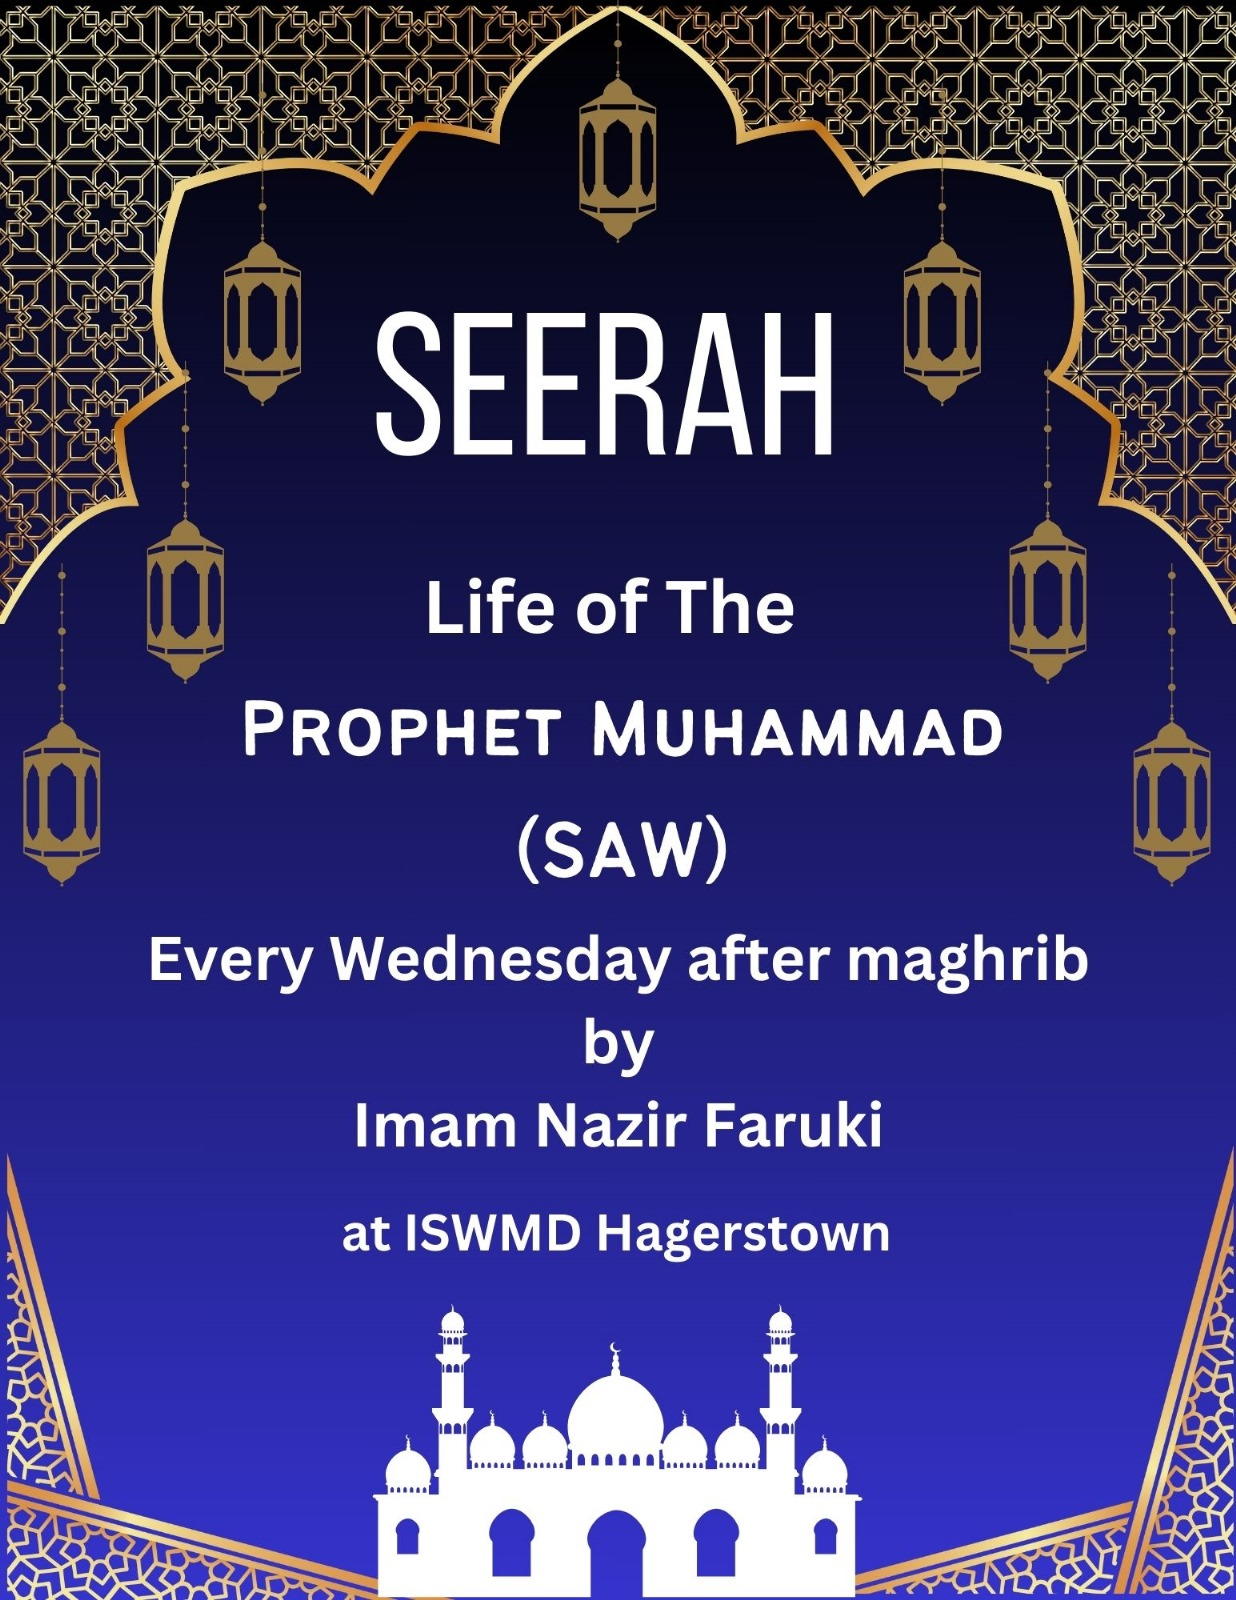
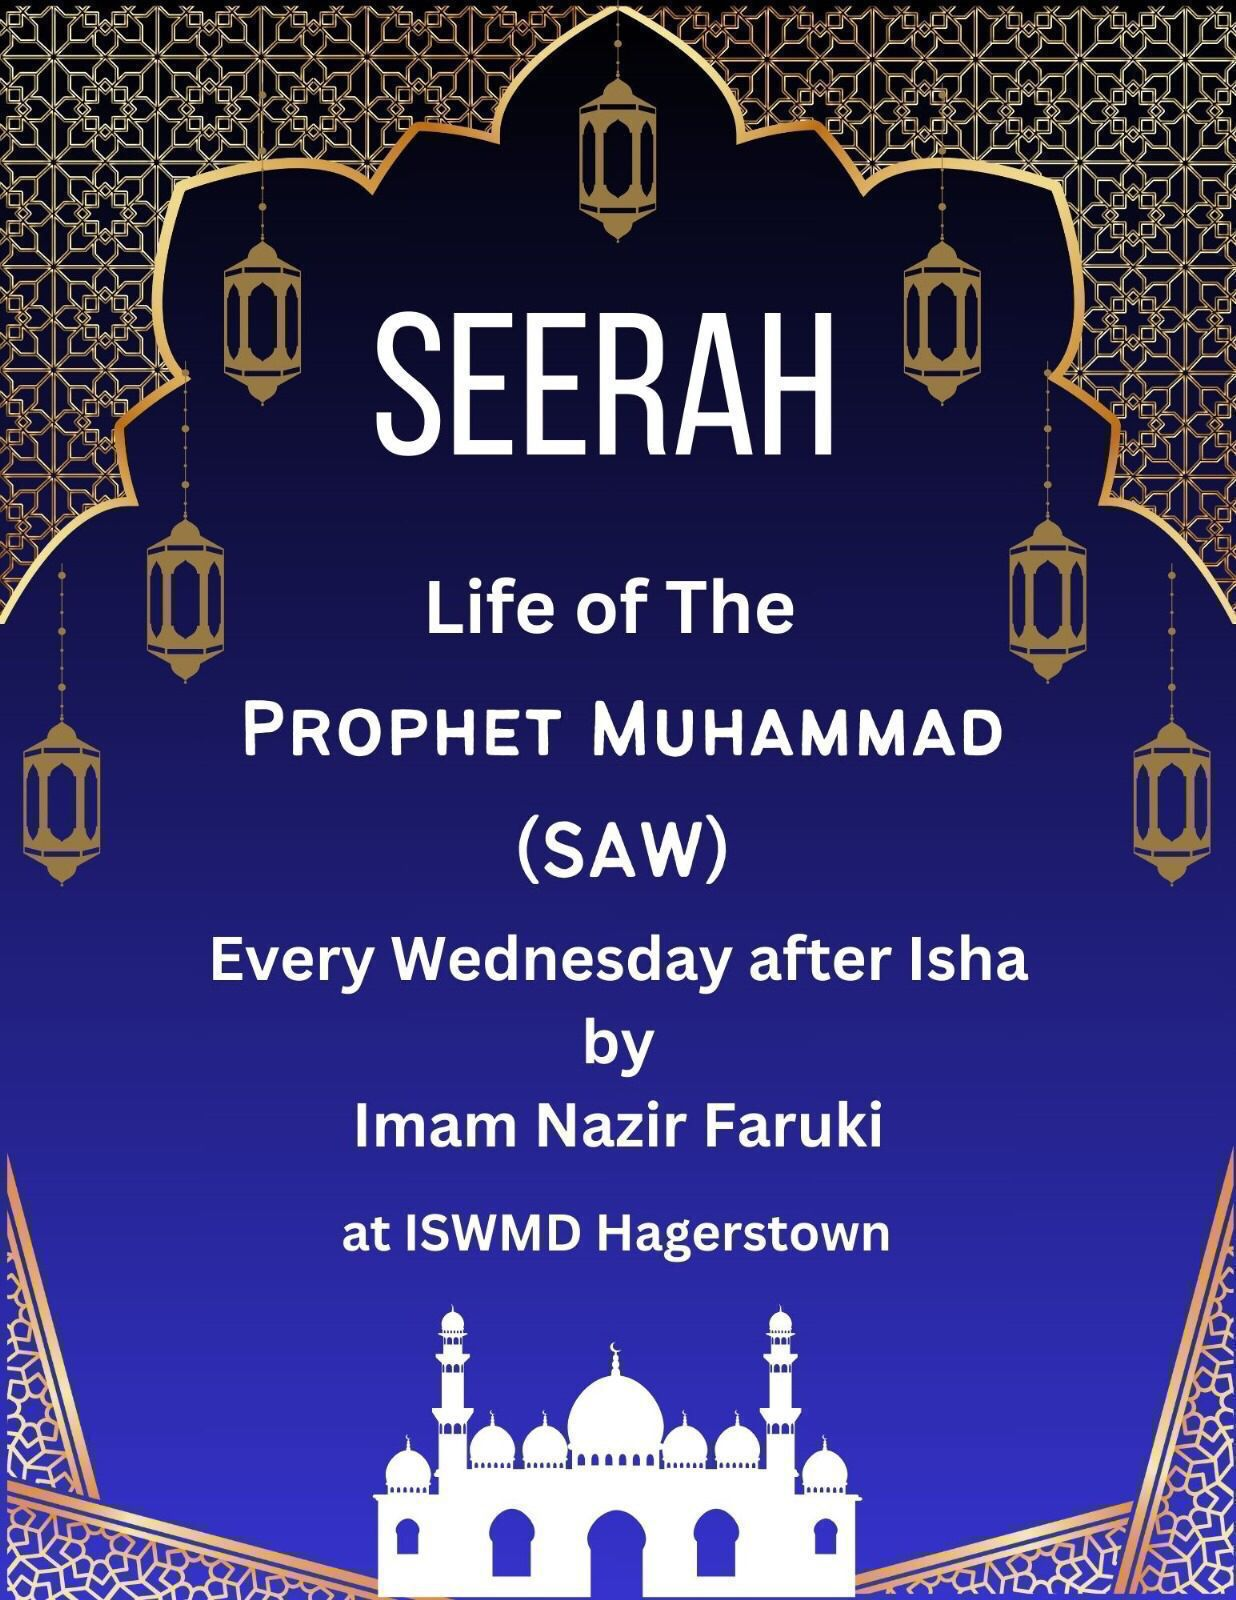
Updated jummah dates and announcements

Changed region(s): [[0.123, 0.5625, 0.8916, 0.625], [0.6764, 0.7188, 1.0, 1.0], [0.0, 0.7188, 0.3074, 1.0]]

diff --git a/index.html b/index.html
@@ -132,43 +132,29 @@
                 <div class="card mx-auto" style="width: 90%; height: 45%;">
                     <br>
                     <div class="card-body">
-                        <img class="card-img-top" src="assets/boys-halaqah.jpg" alt="Card image cap" height="675" width="300" style="float: left; padding: 3px 3px 10px 3px">
-  
-                        <h5 class="card-title">Boy's Halaqah</h5>
-                        <p class="card-text"> September 22nd, 2:15 to 4:15 pm, 12+ only</p>
-                         <hr>
-                    </div>
-                </div>
-            </div>
-          <br>
-
-            <div class="row">
-                <div class="card mx-auto" style="width: 90%; height: 45%;">
-                    <br>
-                    <div class="card-body">
                         <img class="card-img-top" src="assets/girls-halaqah.jpg" alt="Card image cap" height="675" width="300" style="float: left; padding: 3px 3px 10px 3px">
   
                         <h5 class="card-title">Girl's Halaqah</h5>
-                        <p class="card-text"> September 22nd, 2:15 to 4:15 pm, 12+ only</p>
+                        <p class="card-text"> December 21st, 3:00 to 8:00 pm, 12+ only</p>
                          <hr>
                     </div>
                 </div>
             </div>
           <br>
 
-            <div class="row">
-                <div class="card mx-auto" style="width: 90%; height: 45%;">
-                    <br>
-                    <div class="card-body">
-                        <img class="card-img-top" src="assets/kidsplaytime.jpg" alt="Card image cap" height="675" width="300" style="float: left; padding: 3px 3px 10px 3px">
-  
-                        <h5 class="card-title">Kid's Play Time</h5>
-                        <p class="card-text"> September 18th, 10 am to 12:30 pm</p>
-                         <hr>
-                    </div>
+          <div class="row">
+            <div class="card mx-auto" style="width: 90%; height: 45%;">
+                <br>
+                <div class="card-body">
+                    <img class="card-img-top" src="assets/shurah-selection.jpg" alt="Card image cap" height="675" width="300" style="float: left; padding: 3px 3px 10px 3px">
+
+                    <h5 class="card-title">Shurah Selection</h5>
+                    <p class="card-text"> January 24th, Prior to Isha</p>
+                     <hr>
                 </div>
             </div>
-          <br>
+        </div>
+      <br>
 
             <div class="row">
                 <div class="card mx-auto" style="width: 90%; height: 45%;">
@@ -190,10 +176,10 @@
               <div class="card mx-auto" style="width: 90%; height: 45%;">
                   <br>
                   <div class="card-body">
-                      <img class="card-img-top" src="assets/weekly-tafseer2.jpg" alt="Card image cap" height="675" width="300" style="float: left; padding: 3px 3px 10px 3px">
+                      <img class="card-img-top" src="assets/weekly-tafseer.jpg" alt="Card image cap" height="675" width="300" style="float: left; padding: 3px 3px 10px 3px">
 
                       <h5 class="card-title">Weekly Tafseer with Imam Nazir Faruki</h5>
-                      <p class="card-text"> Every Tuesday after Maghrib</p>
+                      <p class="card-text"> Every Tuesday after Isha</p>
                        <hr>
                   </div>
               </div>
@@ -207,7 +193,7 @@
                       <img class="card-img-top" src="assets/weekly-seerah.jpg" alt="Card image cap" height="675" width="300" style="float: left; padding: 3px 3px 10px 3px">
 
                       <h5 class="card-title">Weekly Seerah With Imam Nazir Faruki</h5>
-                      <p class="card-text">Every Wednesday after Maghrib</p>
+                      <p class="card-text">Every Wednesday after Isha</p>
                        <hr>
                   </div>
               </div>

diff --git a/js/events.js b/js/events.js
@@ -48,7 +48,7 @@ events = [
   {
     title: "Jummah khutba and evening halaqah",
     description: "",
-    date: "Jummah: Fri, September 20, 𝟭:𝟯𝟬𝗽𝗺\nDinner: Before Maghrib\nHalaqah to follow",
+    date: "Jummah: Fri, December 20, 𝟭:𝟯𝟬𝗽𝗺\nHalaqa: After Isha\nDinner to follow",
   },
   
   {
